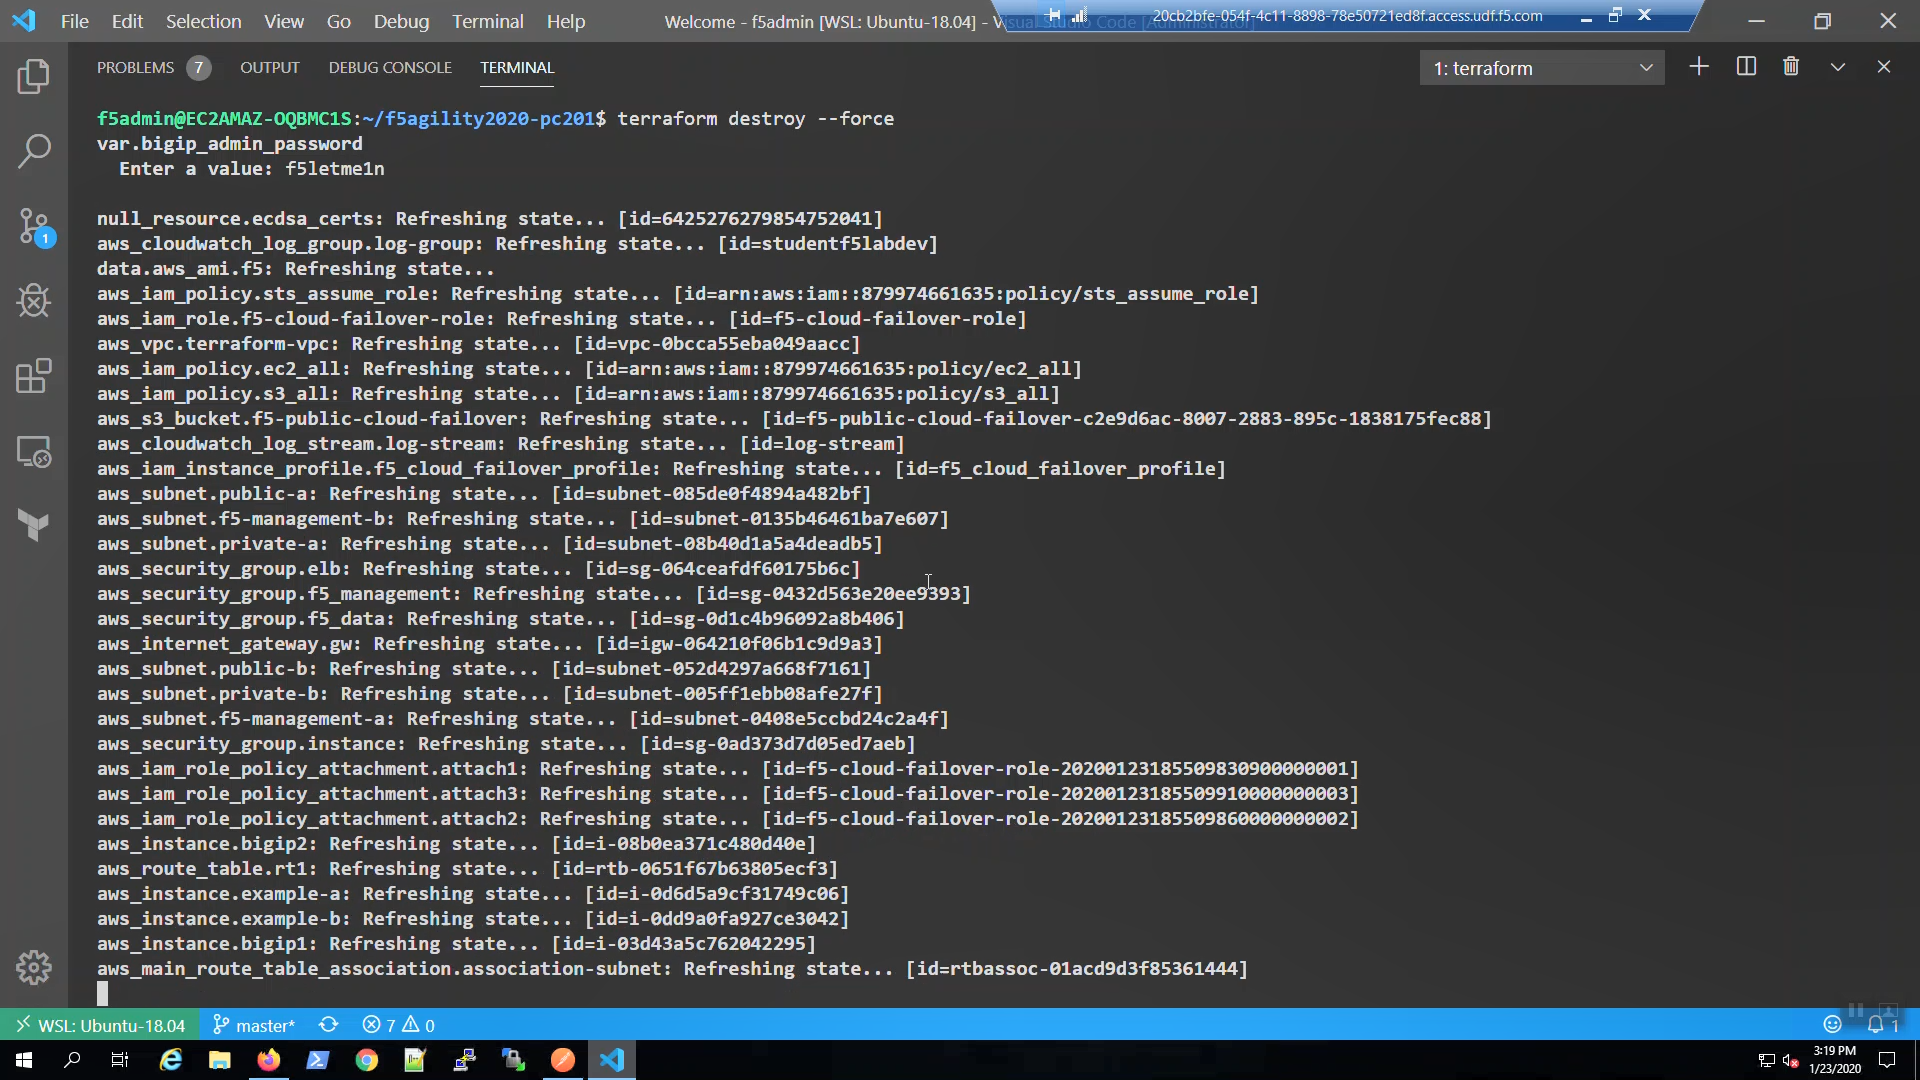
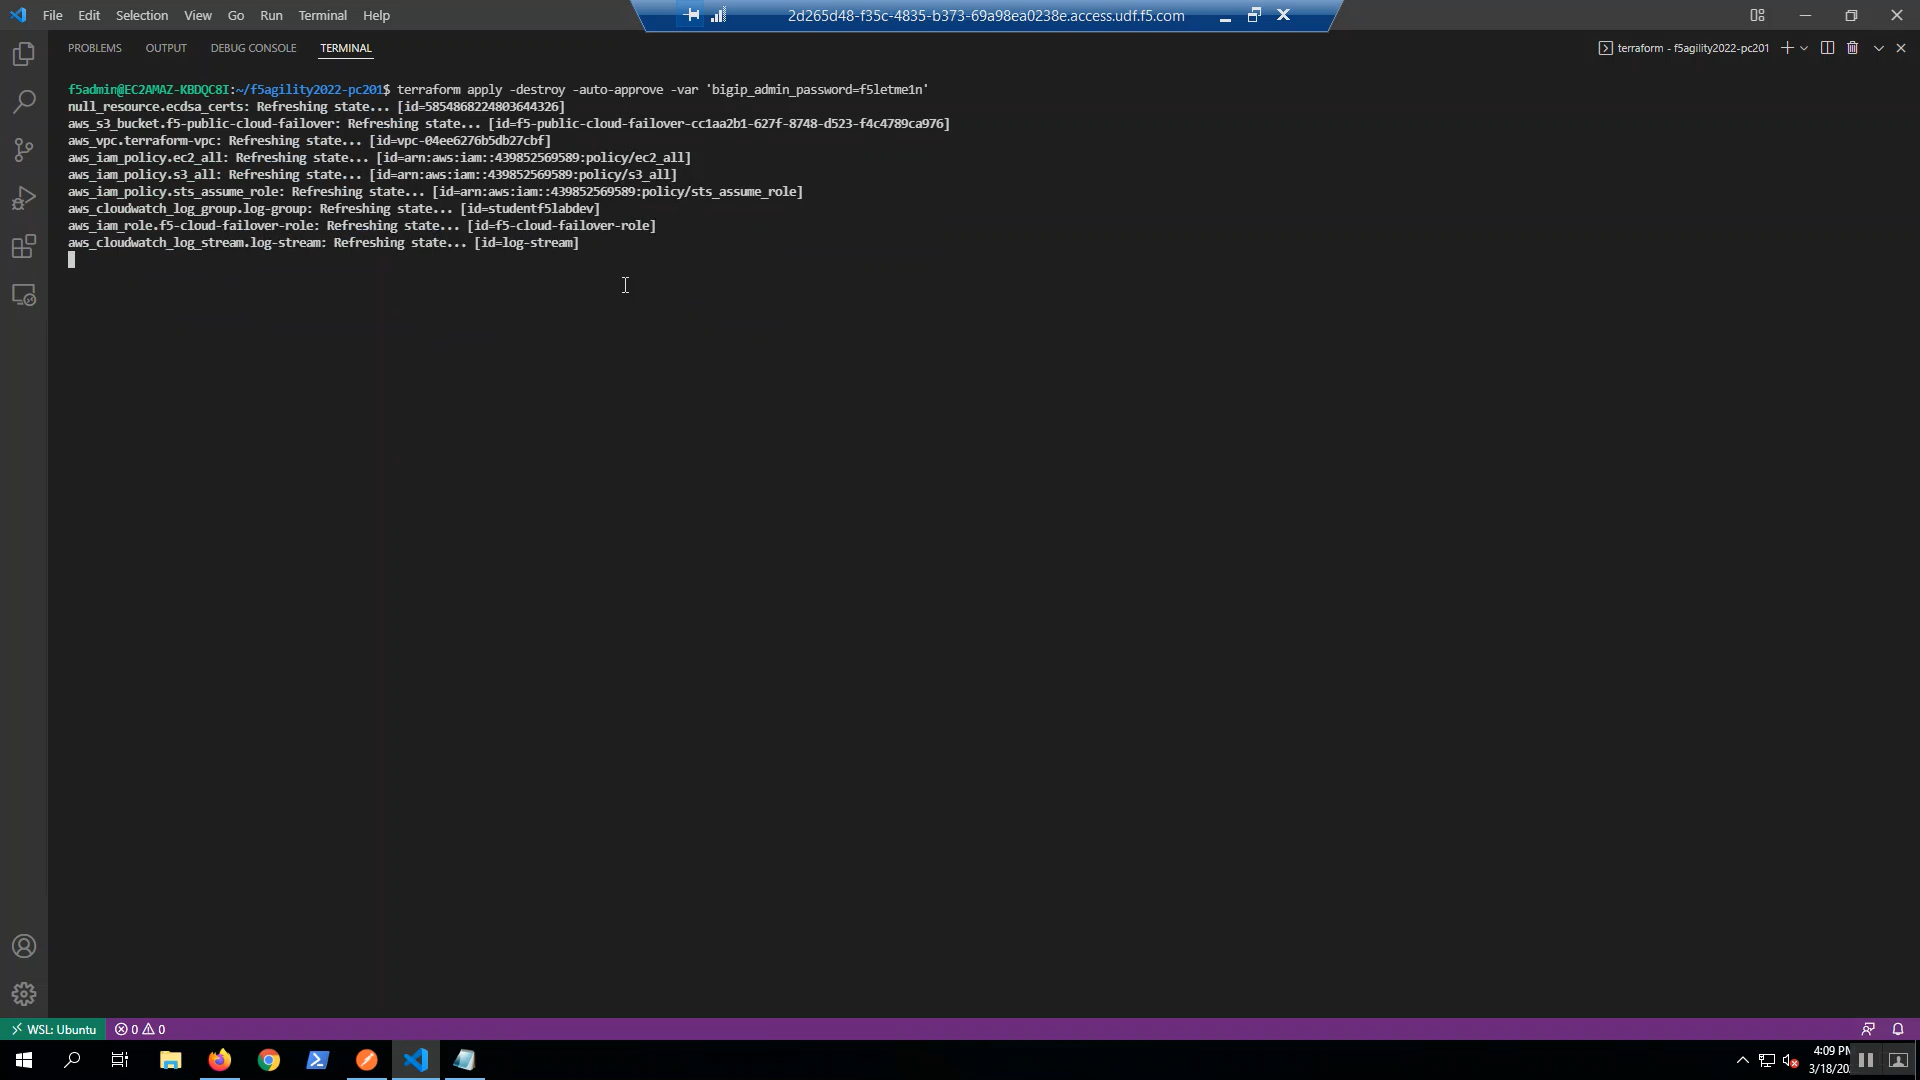
Documentation update for new version of the PC201 lab in preparation for the upcoming Agility 2022 event. https://clouddocs.f5.com/training/community/public-cloud/html/class13/class13.html
The corresponding UDF environment blueprint is:
"Agility 2022 - PC201 - Deploying F5 Solutions to AWS with Terraform and iControl LX Extensions"

The corresponding lab repo is:
https://github.com/tmarfil/f5agility2022-pc201

The lab was tested with the following software versions:

terraform --version
Terraform v1.1.7
on linux_amd64
+ provider registry.terraform.io/hashicorp/aws v4.5.0
+ provider registry.terraform.io/hashicorp/local v1.4.0
+ provider registry.terraform.io/hashicorp/null v3.1.1
+ provider registry.terraform.io/hashicorp/template v2.2.0

aws --version
aws-cli/2.4.25 Python/3.8.8 Linux/4.4.0-17763-Microsoft exe/x86_64.ubuntu.20 prompt/off

F5 BIGIP-16.1.2.1-0.0.10 PAYG-Adv WAF Plus 25Mbps

- Declarative Onboarding v1.28.0
- Application Services Extension 3 v3.35.0/{{as3_file}}"
- Cloud Failover Extension v1.10.0
- Telemetry Streaming v1.27.0

VS Code
code --version
1.65.2
c722ca6c7eed3d7987c0d5c3df5c45f6b15e77d1
x64

Postman
9.14.0

diff --git a/docs/class13/module01/lab1.rst b/docs/class13/module01/lab1.rst
@@ -3,14 +3,13 @@ Login to F5's lab platform (Unified Demo Framework) and launch a remote desktop 
 
 Follow the link in your email invite and login to the lab environment.
 
-Your Deployment => Systems => win2019 => DETAILS. Copy the Administrator password to your clipboard. The password starts immediately after Administrator:
+Under win2019, from the ACCESS drop-down, select RDP and resolution. The lab looks best in FHD (1920 x 1080). This will download the rdp file to your computer. Launch the RDP file and login via RDP using the credentials below.
 
-.. image:: ./images/00_admin_pass.png
-  :scale: 50%
-
-Click [Done] in the lower right-hand corner.
-
-Under win2019, from the ACCESS drop-down, select RDP and resolution. The lab looks best in FHD (1920 x 1080). This will download the rdp file to your computer. Launch the RDP file and login via RDP using the Administrator credentials. Copy and paste credentials from your clipboard.
++-----------+------+
+| Username: | user |
++-----------+------+
+| Password: | user |
++-----------+------+
 
 .. image:: ./images/01_rdp.png
   :scale: 50%
@@ -59,7 +58,7 @@ Login to the AWS web console with the credentials shown in your terminal.
 
 .. attention::
 
-  In the upper-right-hand corner, choose US-West (Oregon) us-west-2 region.
+  In the upper-right-hand corner, confirm you are in the correct region (lab will run in US-West (Oregon) / us-west 2 region by default)
 
 "Services" => type "marketplace" in the search window. Select "AWS Marketplace Subscriptions" from the search results. Right-click on "Manage subscriptions" to open a new tab.
 => "Discover products"
@@ -86,12 +85,12 @@ From the Visual Studio Code Terminal, clone the github repository for this lab a
 
 .. attention::
 
-  For a smooth ride, always invoke commands from inside the cloned git repository (f5agility2020-pc201). To check you're in the right place, you can run the command ``pwd`` and the output should read ``/home/f5admin/f5agility2020-pc201``
+  For a smooth ride, always invoke commands from inside the cloned git repository (f5agility2022-pc201). To check you're in the right place, you can run the command ``pwd`` and the output should read ``/home/f5admin/f5agility2022-pc201``
 
 .. code-block:: bash
 
-   git clone https://github.com/TonyMarfil/f5agility2020-pc201.git
-   cd f5agility2020-pc201/
+   git clone https://github.com/tmarfil/f5agility2022-pc201.git
+   cd f5agility2022-pc201/
 
 .. image:: ./images/9_vscode_git_clone.png
   :scale: 50%

diff --git a/docs/class13/module07/lab1.rst b/docs/class13/module07/lab1.rst
@@ -72,6 +72,54 @@ Open a new browser tab. Connect via HTTPS to ``virtual_server01_elastic_ip`` or 
 .. image:: ./images/9_example_app_bigip1.png
 	   :scale: 50%
 
+From the vscode terminal, SSH to the active BIG-IP and confirm the interfaces the F5 Cloud Failover Extension is tracking:
+
+.. code-block:: bash
+
+   bigip1
+
+.. code-block:: bash
+
+   bash
+   curl -su admin: http://localhost:8100/mgmt/shared/cloud-failover/inspect | jq .
+   exit
+   quit
+
+.. image:: ./images/active_cfe_inspect.png
+	   :scale: 50%
+
+From the vscode terminal, SSH to the standby BIG-IP and confirm the interfaces the F5 Cloud Failover Extension is tracking:
+
+.. code-block:: bash
+
+   bigip2
+
+.. code-block:: bash
+
+   bash
+   curl -su admin: http://localhost:8100/mgmt/shared/cloud-failover/inspect | jq .
+
+.. image:: ./images/standby_cfe_info_inspect.png
+	   :scale: 50%
+
+On the same standby BIG-IP, perform a failover 'dry-run' to see what you can expect to happen during a failover event. Notice the "current" and "target" address mappings.
+
+.. code-block:: bash
+
+   curl -su admin: -X POST -d '{"action":"dry-run"}' http://localhost:8100/mgmt/shared/cloud-failover/trigger | jq .
+
+.. image:: ./images/standby_cfe_trigger.png
+	   :scale: 50%
+
+On the same standby BIG-IP, we'll watch the logs before triggering a failover event.
+
+.. code-block:: bash
+
+   tail -f /var/log/restnoded/restnoded.log
+
+.. image:: ./images/standby_cfe_restnoded_log.png
+	   :scale: 50%
+
 From Big-IP1, Device Management => Devices => bigip1.f5lab.dev.
 
 .. image:: ./images/11_device_bigip1.png

diff --git a/docs/class13/module03/lab1.rst b/docs/class13/module03/lab1.rst
@@ -5,7 +5,7 @@ From the Visual Studio Code Terminal, copy the postman_rendered.json file to the
 
 .. code-block:: bash
 
-   cp ./postman_rendered.json /mnt/c/Users/Administrator/Desktop/
+   cp ./postman_rendered.json /mnt/c/Users/user/Desktop/
 
 .. image:: ./images/1_postman_rendered.png
 	   :scale: 50%
@@ -27,7 +27,7 @@ In the left-pane tab, select "Collections" and click "Import" above. Choose "Lin
 
 .. code-block:: bash
 
-   https://raw.githubusercontent.com/TonyMarfil/f5agility2020-pc201/master/postman/f5agility2021-pc201-postman-collection.json
+   https://raw.githubusercontent.com/tmarfil/f5agility2022-pc201/master/postman/f5agility2022-pc201-postman-collection.json
 .. image:: ./images/3_postman_import_collection.png
 	   :scale: 50%
 

diff --git a/docs/class13/class13.rst b/docs/class13/class13.rst
@@ -14,7 +14,7 @@ In this lab, we'll demystify how Terraform integrates with the F5 Automation and
 
 We'll also explore common public cloud use cases such as:
 
-- Retrofit an application with modern protocols (HTTP/2, CSP)
+- Retrofit an application with modern protocols (HTTP/2, TLS 1.3)
 - Proxy your application with F5 for comprehensive analytics
 - Protect your application with a layered application security policy to defend against Automated Threats.
 

diff --git a/docs/class13/module10/lab1.rst b/docs/class13/module10/lab1.rst
@@ -13,7 +13,7 @@ AWS => Services => S3 => f5-public-cloud-failover-...
 
 .. code-block:: bash
 
-   terraform destroy --force -var 'bigip_admin_password=f5letme1n'
+   terraform apply -destroy -auto-approve -var 'bigip_admin_password=f5letme1n'
 
 .. image:: ./images/3_vscode_terraform_destroy.png
 	   :scale: 50%
